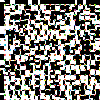
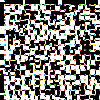
Updated canada.pymy1.png .

diff --git a/canada.py b/canada.py
@@ -27,34 +27,7 @@ outp=[[inp[i*10+5,j*10+5] for j in range(100)] for i in range(100)]
 outp=np.asarray(outp)
 img = Image.fromarray(outp, 'RGB')
 img.save('my.png')
-moverPieza(outp,18,1,0,0)
-moverPieza(outp,0,16,0,4)
-moverPieza(outp,1,4,0,10)
-moverPieza(outp,1,9,0,9)
-moverPieza(outp,2,8,0,7)
-moverPieza(outp,3,0,0,14)
-moverPieza(outp,4,7,0,3)
-moverPieza(outp,5,3,0,17)
-moverPieza(outp,7,17,0,13)
-moverPieza(outp,8,8,0,12)
-moverPieza(outp,10,1,0,5)
-moverPieza(outp,11,11,0,8)
-moverPieza(outp,12,16,0,16)
-moverPieza(outp,13,6,0,11)
-moverPieza(outp,15,5,0,1)
-moverPieza(outp,16,5,0,2)
-moverPieza(outp,17,4,0,15)
-moverPieza(outp,17,12,0,18)
-moverPieza(outp,18,10,0,6)
-moverPieza(outp,19,17,0,19)
-moverPieza(outp,4,14,19,19)
-moverPieza(outp,8,5,18,19)
-moverPieza(outp,5,10,17,19)
-moverPieza(outp,9,16,16,19)
-moverPieza(outp,4,7,15,19)
-moverPieza(outp,3,16,14,19)
-moverPieza(outp,19,5,3,3)
-#moverPieza(outp,9,0,19,17)
+
 
 for a in range(1):
     for i in range(20):
@@ -65,7 +38,9 @@ for a in range(1):
                     break
                 for k in range(20):
                     if(o>i or k>j):
-                        if(j==0):
+                        if(j==0 and i==0):
+                            moverPieza(outp,18,1,0,0)
+                        elif(j==0):
                             if(bon(getColor(outp,4,o,k)) and bon(getColor(outp,1,o,k)) and np.array_equal(getColor(outp,2,o,k),getColor(outp,3,i-1,j)) ):
                                 moverPieza(outp,o,k,i,j)
                                 cortar=True
